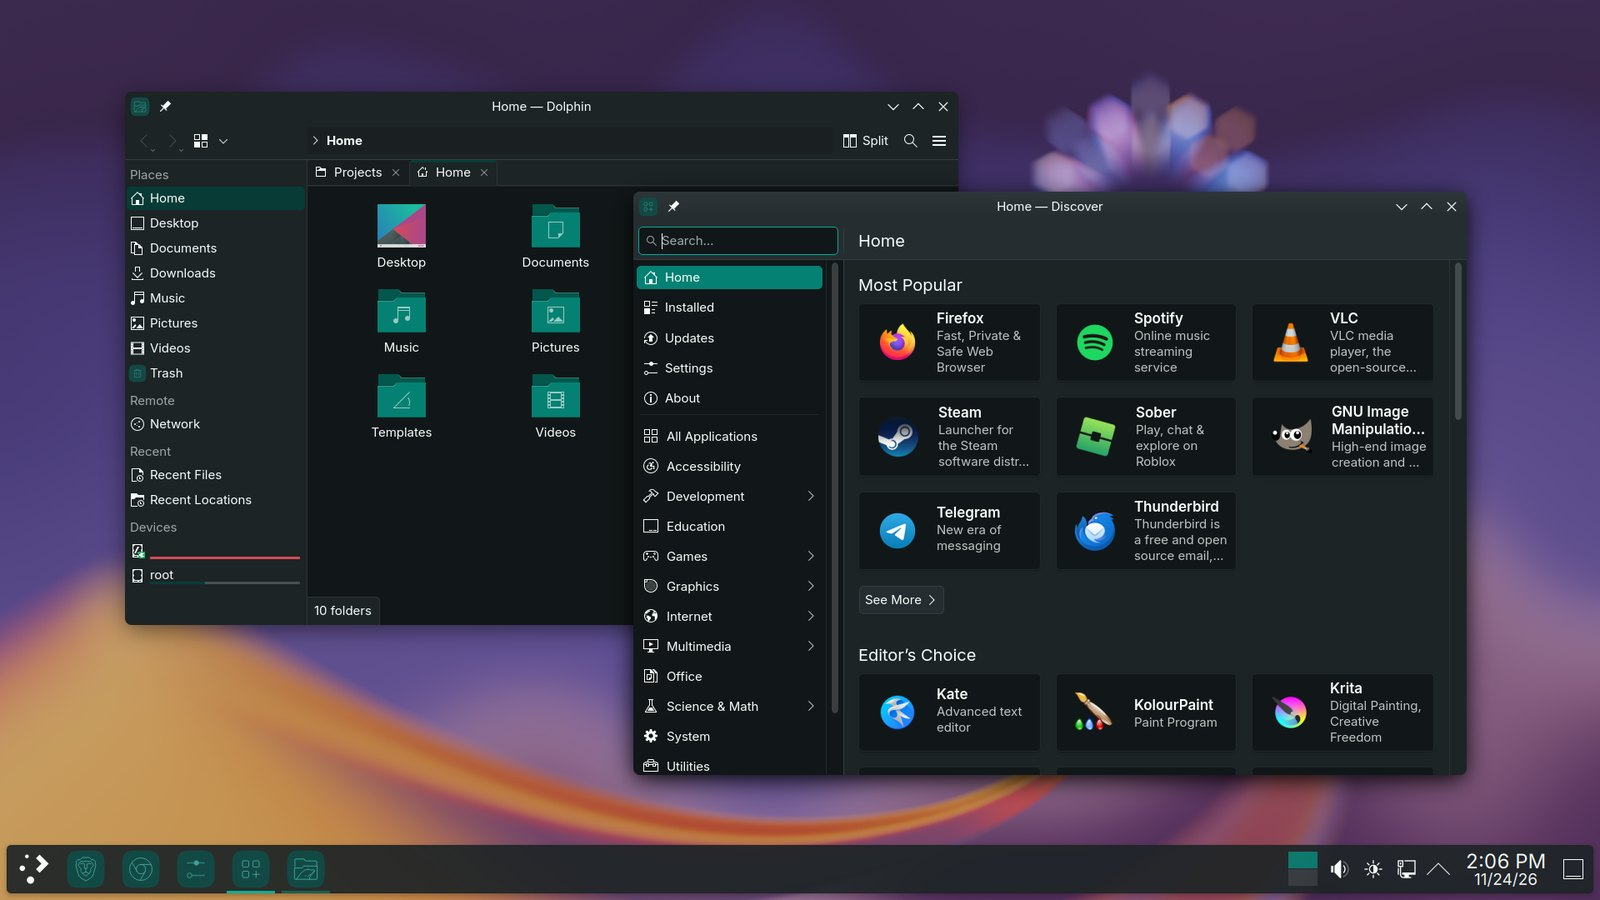
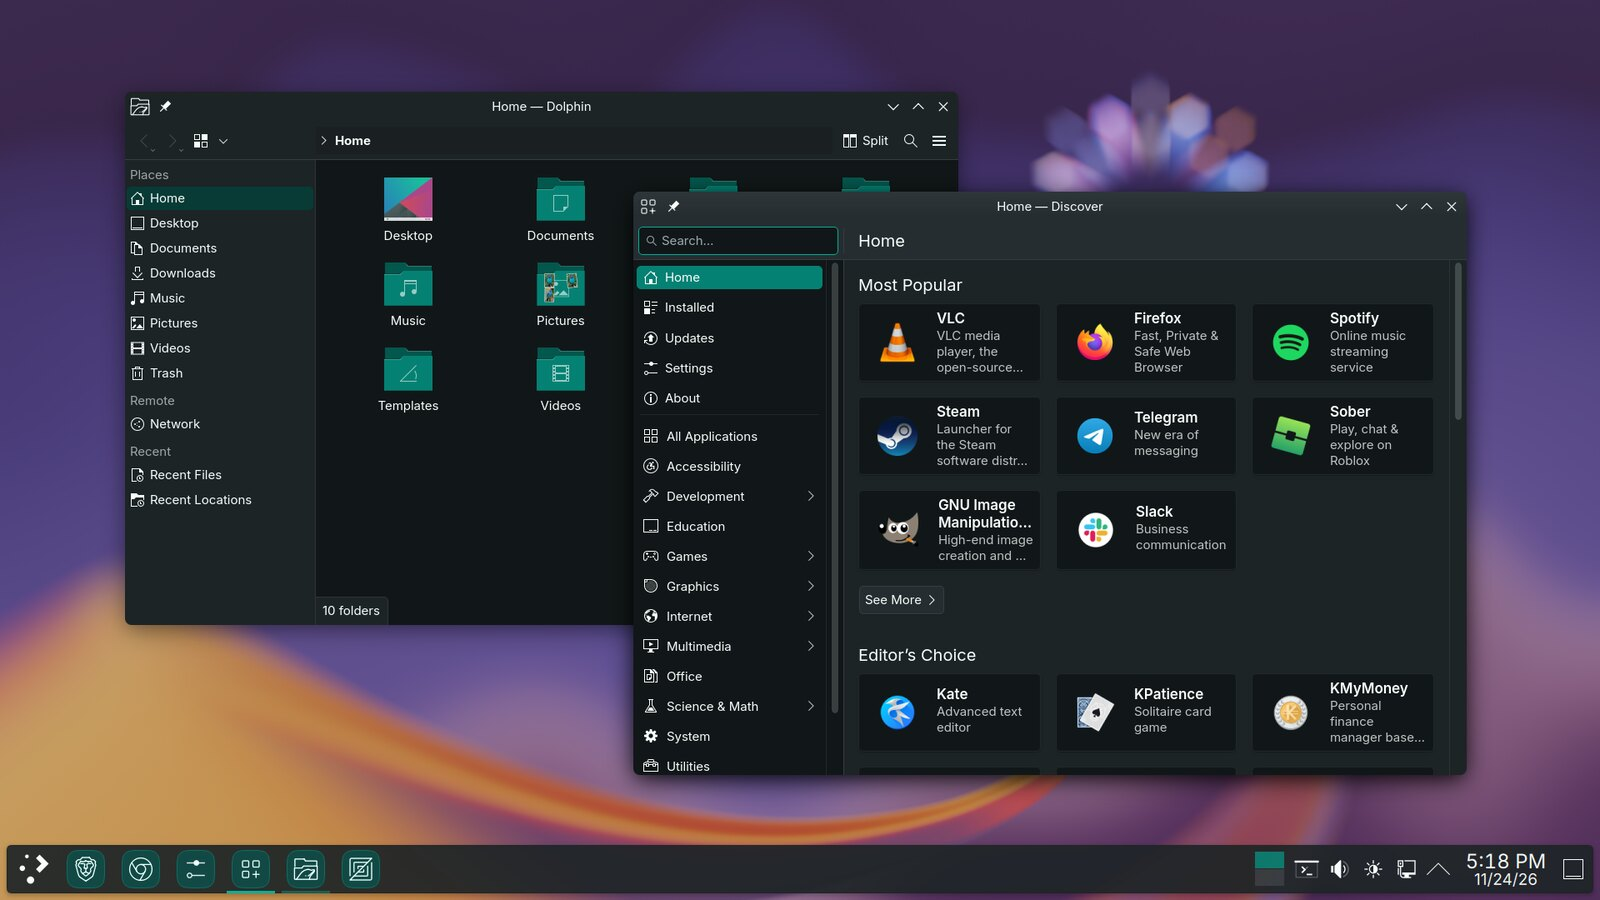
Add a task that takes the themes' pictures from the test VM, and take them
The previews of both global themes and the README's screenshots were made
by hand four times in a day, and were out of date again: they predated the
icons' edge, the glyphs in the text color and the small plain icons.
tests/theme-screenshots.sh (mise run theme:screenshots) drives the running
test VM, takes them and puts the session back as it was.

diff --git a/README.md b/README.md
@@ -324,4 +324,4 @@ Rules:
 - Removing a name from `flatpaks.list` does not uninstall it from existing machines: use `flatpak uninstall`.
 - Flatpak apps don't use the host's codecs or VA-API driver; they use their runtime's (`ffmpeg-full` and the Intel VA-API extension).
 - The roadmap and the owner's decisions are in `CLAUDE.md`, and what was tested is in `docs/status.md`. What to check on the XPS first is in `docs/xps16-checklist.md`.
-- To take the screenshots again: apply each theme in a test VM (`plasma-apply-lookandfeel -a katze-dark`), capture with Spectacle, and save them in `docs/screenshots/` at 1600 px wide. `katze-mono.py --follow-accent --sheet` draws the icon sheet.
+- To take the screenshots again: `mise run theme:screenshots`, with the test VM running and its user logged in. It applies each theme there, captures the desktop and the launcher, and writes the README's pictures and both themes' previews. `katze-mono.py --follow-accent --sheet` draws the icon sheet.

diff --git a/CLAUDE.md b/CLAUDE.md
@@ -200,6 +200,7 @@ mise run iso xps16-da16260          # installer ISO
 mise run switch-local base          # switch THIS machine to a local build (the name is required)
 mise run switch xps16-da16260       # switch THIS machine to the published image, requiring its signature
 mise run power --load 60            # THIS machine: profile, RAPL limits, turbostat idle and under load → output/power/
+mise run theme:screenshots          # previews of both themes and the README's pictures, from the running test VM
 mise run clean                      # remove output/, after asking
 ```
 
